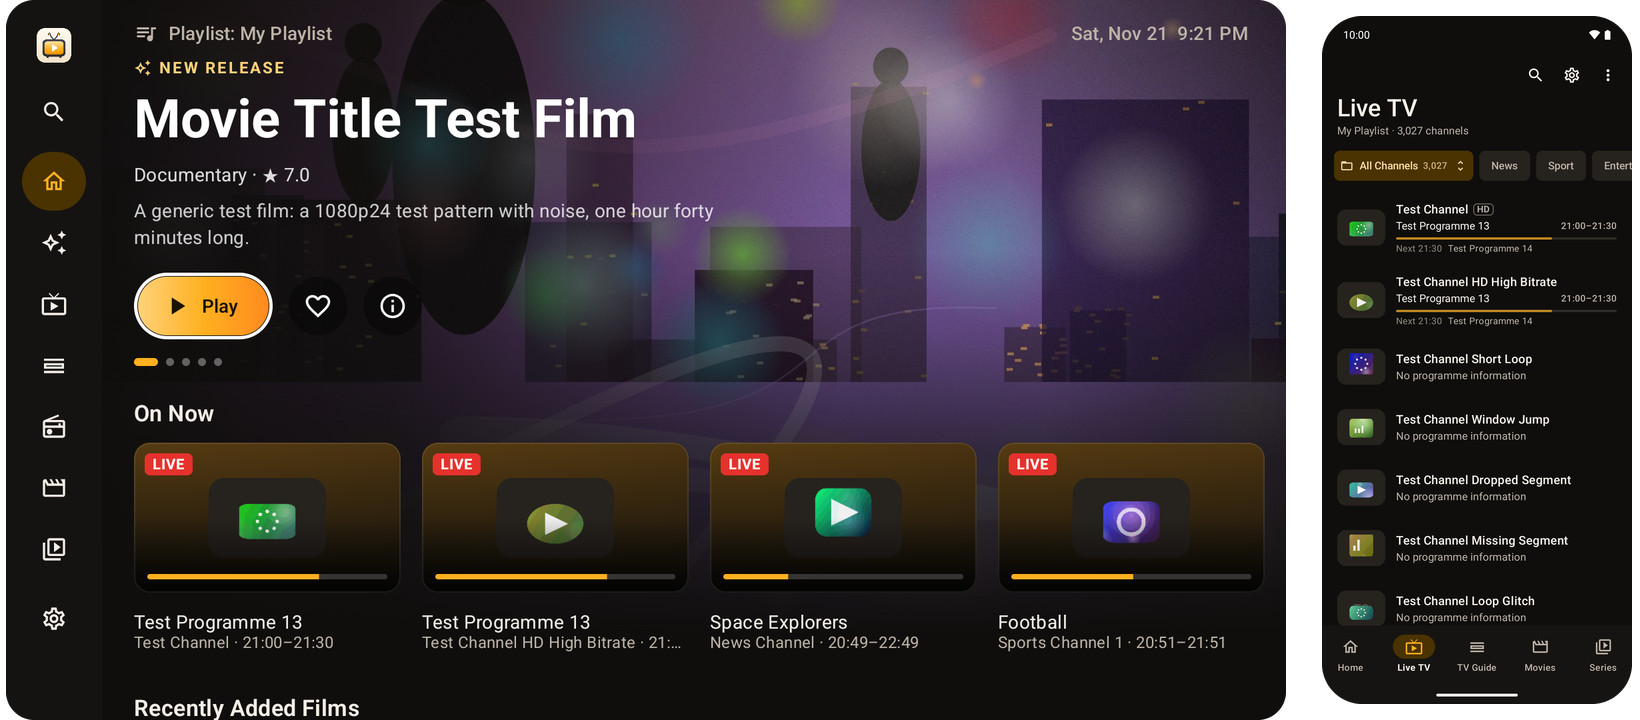
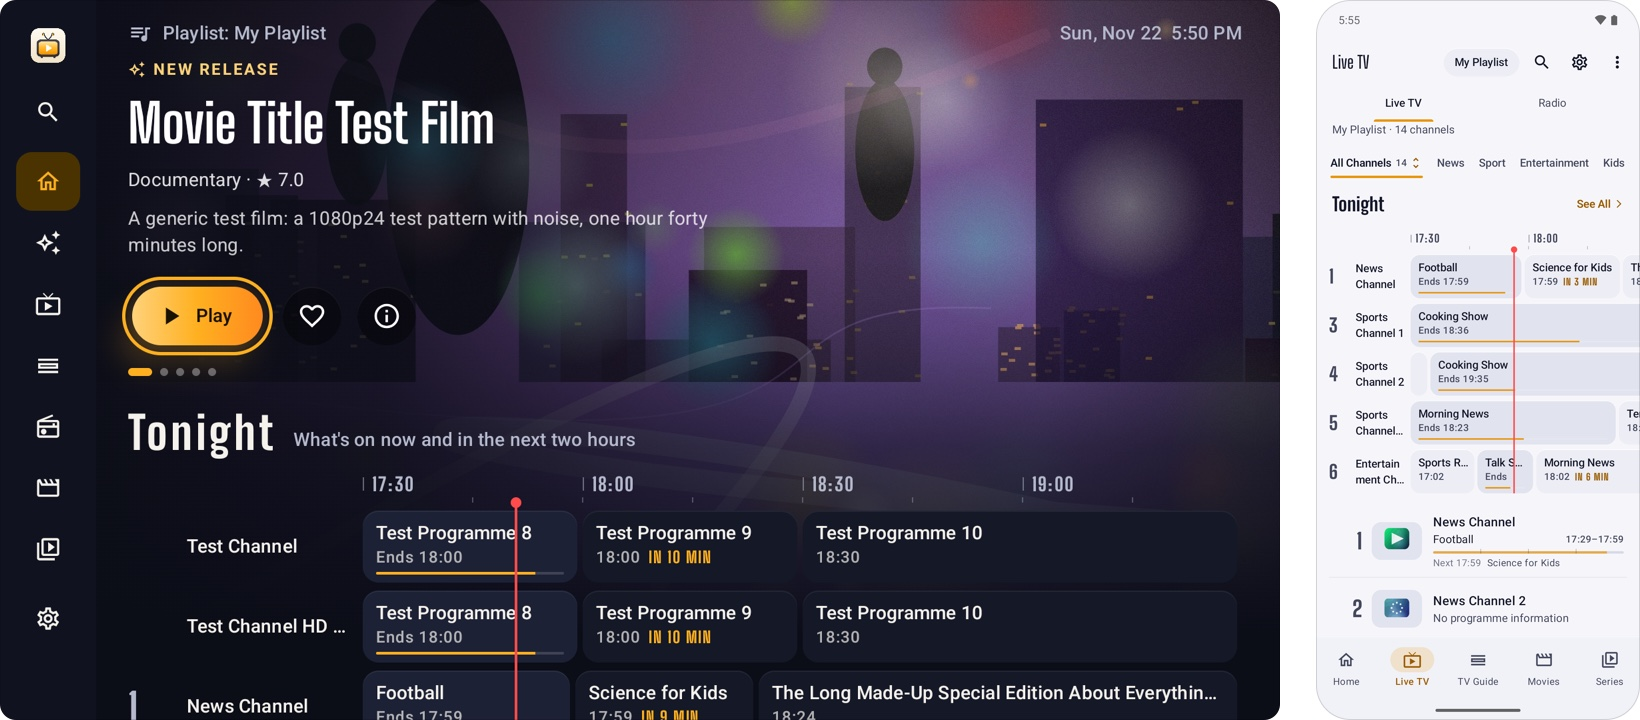
README screenshots for ElBee Player for Android 0.3.8

diff --git a/README.md b/README.md
@@ -25,7 +25,7 @@
 <p align="center">
   <picture>
     <source media="(prefers-color-scheme: dark)" srcset="assets/screenshot-dark.jpg">
-    <img src="assets/screenshot-light.jpg" alt="ElBee Player's Home on a TV, with new films and On Now, beside Live TV on a phone">
+    <img src="assets/screenshot-light.jpg" alt="ElBee Player's Home on a TV, with Tonight's guide under the banner, beside Live TV on a phone">
   </picture>
 </p>
 
